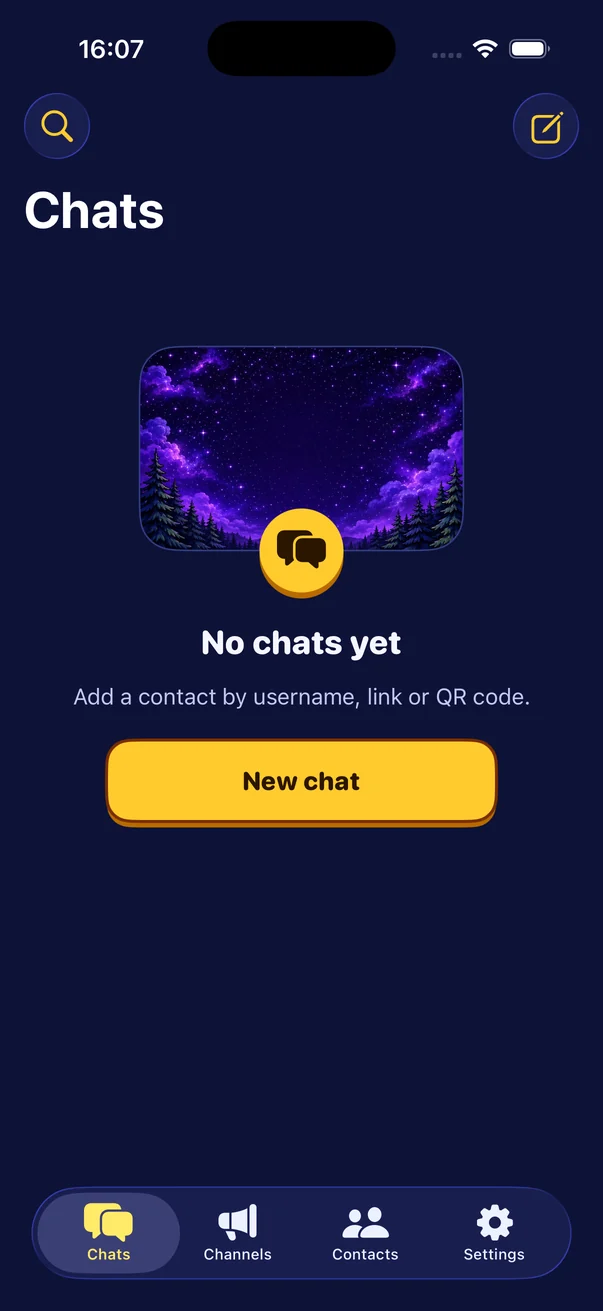
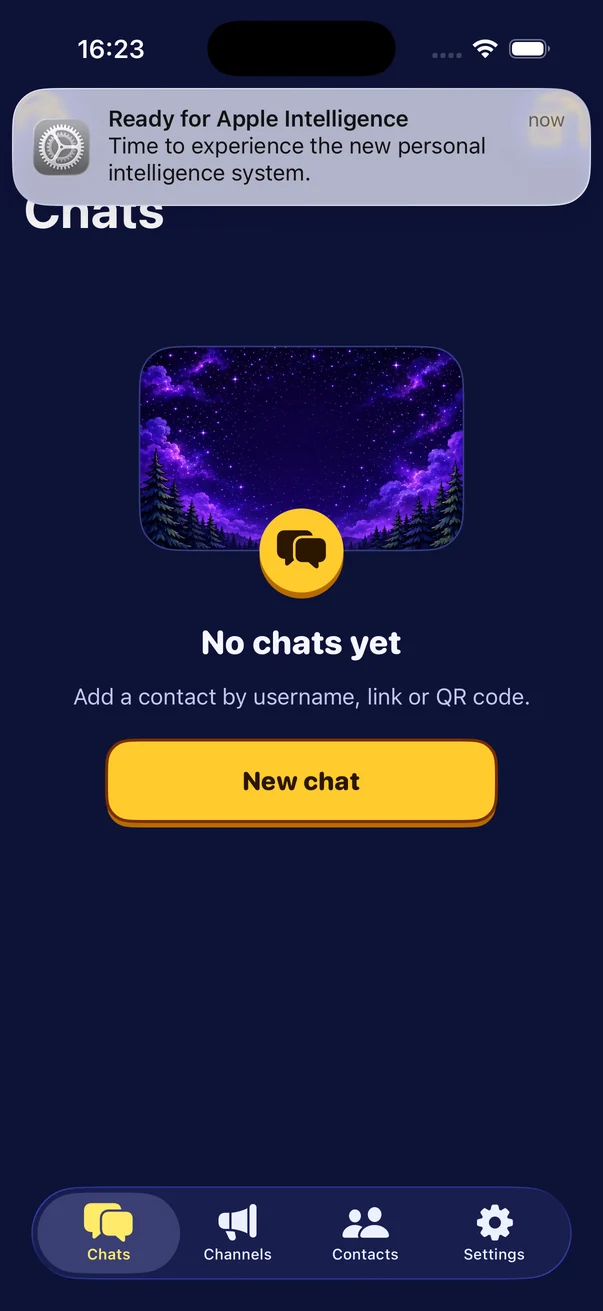
fix(ios): попытка PIN засчитывается до проверки; жалобы на чат и канал; умолчания как на Android
Аудит iOS против Android:

- 🔐 уязвимость: неверная попытка PIN записывалась после проверки.
  Вывод ключа (Argon2 и Secure Enclave) занимает доли секунды; убитое в
  это время приложение не записывало ничего — перебор PIN без задержек
  и без стирания. Теперь как на Android (аудит A-1):
  PinAttempts.beginAttempt() до проверки, reset() при верном PIN,
  cancelAttempt() — если PIN не сверялся (ключ Enclave недоступен и т. п.);
  без записанной попытки PIN не проверяется вовсе;
- 🔐 включение Face ID сверяло PIN мимо счётчика — с открытым
  приложением PIN перебирался без задержек. Теперь та же запись
  попытки, задержки и стирание после десяти;
- жалоба на собеседника (canReportChat → reportChat, «только
  пожаловаться» / «пожаловаться и заблокировать») и на канал (пять
  причин, «отправить с доступом» / «только жалоба») — тексты как на
  Android; без жалоб App Store не пропускает приложения с содержимым
  пользователей (правило 1.2);
- автоблокировка по умолчанию — 60 с, скопированное стирается через
  60 с — как на Android (было 30 и 120).

Сайт: снимки нового отчёта — приветствие с логотипом, вход, чаты.

Changed region(s): [[0.0, 0.0305, 0.9851, 0.1831]]

diff --git a/ios/GasApp/UI/ChannelScreen.swift b/ios/GasApp/UI/ChannelScreen.swift
@@ -255,6 +255,8 @@ struct ChannelInfoSheet: View {
     @State private var link: String?
     @State private var qr: FfiQrMatrix?
     @State private var confirmLeave = false
+    @State private var reportReason: UInt8?
+    @State private var reportNote: String?
     @Environment(\.dismiss) private var dismiss
 
     init(channelId: String, onDone: @escaping (Bool) -> Void) {
@@ -284,7 +286,19 @@ struct ChannelInfoSheet: View {
                             get: { channel.muted }, set: { mute($0) }
                         ))
                         if channel.role != .owner {
+                            // Причины — те же номера, что знает сервер (как на Android).
+                            Menu {
+                                ForEach(ChannelReport.reasons, id: \.0) { reason in
+                                    Button(reason.1) { reportReason = reason.0 }
+                                }
+                            } label: {
+                                Label(L10n.t("Пожаловаться на канал", "Report channel"), systemImage: "exclamationmark.bubble")
+                            }
+                            .foregroundStyle(GasAppColor.error)
                             Button(L10n.t("Покинуть канал", "Leave channel"), role: .destructive) { confirmLeave = true }
+                        }
+                        if let reportNote {
+                            Text(reportNote).font(.system(size: 13)).foregroundStyle(GasAppColor.textSecondary)
                         }
                     }
                 }
@@ -295,6 +309,19 @@ struct ChannelInfoSheet: View {
         .toolbar { ToolbarItem(placement: .confirmationAction) { Button(L10n.t("Готово", "Done")) { onDone(false); dismiss() } } }
         .confirmationDialog(L10n.t("Покинуть канал?", "Leave the channel?"), isPresented: $confirmLeave, titleVisibility: .visible) {
             Button(L10n.t("Покинуть", "Leave"), role: .destructive) { leave() }
+        }
+        // 🔐 Записи канала без публичного имени оператор прочитать не может:
+        // дать ли ему ключ чтения, решает человек, и что получит оператор,
+        // сказано до кнопок (ChannelActivity.confirmReport на Android).
+        .confirmationDialog(L10n.t("Пожаловаться на канал", "Report channel"), isPresented: Binding(
+            get: { reportReason != nil }, set: { if !$0 { reportReason = nil } }
+        ), titleVisibility: .visible) {
+            Button(L10n.t("Отправить с доступом", "Send with access")) { sendReport(shareKey: true) }
+            Button(L10n.t("Только жалоба", "Report only")) { sendReport(shareKey: false) }
+            Button(L10n.t("Отмена", "Cancel"), role: .cancel) { reportReason = nil }
+        } message: {
+            Text(L10n.t("Жалоба уйдёт оператору сервера вместе с именем вашего аккаунта. Записи этого канала оператор прочитать не может — если не дать ему доступ. «Отправить с доступом» приложит к жалобе ссылку канала: оператор сможет открыть его и увидеть, на что вы жалуетесь.",
+                        "The report goes to the server operator together with your account name. The operator cannot read this channel's posts unless you give access. “Send with access” attaches the channel link to the report, so the operator can open the channel and see what you are reporting."))
         }
         .task { await load() }
     }
@@ -317,6 +344,20 @@ struct ChannelInfoSheet: View {
         }
     }
 
+    private func sendReport(shareKey: Bool) {
+        guard let reason = reportReason, let messenger = try? CoreStore.shared.current() else { return }
+        reportReason = nil
+        let id = channelId
+        Task {
+            let sent = (try? await Background.run {
+                try messenger.reportChannel(channelId: id, reason: reason, shareKey: shareKey, nowMillis: CoreStore.nowMillis)
+            }) != nil
+            reportNote = sent
+                ? L10n.t("Жалоба отправлена", "Report sent")
+                : L10n.t("Нет связи с сервером. Попробуйте ещё раз.", "No connection to the server. Try again.")
+        }
+    }
+
     private func leave() {
         guard let messenger = try? CoreStore.shared.current() else { return }
         let id = channelId
@@ -326,4 +367,15 @@ struct ChannelInfoSheet: View {
             dismiss()
         }
     }
+}
+
+/// Причины жалобы на канал: номер, как его знает сервер, и подпись.
+enum ChannelReport {
+    static let reasons: [(UInt8, String)] = [
+        (1, L10n.t("Спам или обман", "Spam or scam")),
+        (2, L10n.t("Незаконное содержимое", "Illegal content")),
+        (3, L10n.t("Угроза безопасности детей", "Child safety concern")),
+        (4, L10n.t("Насилие или ненависть", "Violence or hate")),
+        (5, L10n.t("Другое", "Something else")),
+    ]
 }

diff --git a/ios/GasApp/UI/ChatScreen.swift b/ios/GasApp/UI/ChatScreen.swift
@@ -41,6 +41,7 @@ struct ChatScreen: View {
     @State private var contact: FfiContact?
     @State private var blocked = false
     @State private var showSafety = false
+    @State private var confirmReport = false
     @State private var confirmDecline = false
     @State private var toast: String?
     @State private var receiptSentFor: String?
@@ -101,11 +102,23 @@ struct ChatScreen: View {
                         }
                     }
                     if !resolvedChatId.isEmpty {
+                        Button(L10n.t("Пожаловаться", "Report"), role: .destructive) { startReport() }
                         Button(blocked ? L10n.t("Разблокировать", "Unblock") : L10n.t("Заблокировать", "Block"),
                                role: blocked ? nil : .destructive) { toggleBlock() }
                     }
                 } label: { Image(systemName: "ellipsis.circle") }
             }
+        }
+        // Жалоба — как на Android (ChatActivity): что получит оператор,
+        // сказано до кнопок; «и заблокировать» — второй вариант.
+        .confirmationDialog(L10n.t("Пожаловаться на \(title)?", "Report \(title)?"),
+                            isPresented: $confirmReport, titleVisibility: .visible) {
+            Button(L10n.t("Пожаловаться и заблокировать", "Report and block"), role: .destructive) { sendReport(alsoBlock: true) }
+            Button(L10n.t("Только пожаловаться", "Report only")) { sendReport(alsoBlock: false) }
+            Button(L10n.t("Отмена", "Cancel"), role: .cancel) {}
+        } message: {
+            Text(L10n.t("Оператор сервера получит доказательство, что этот аккаунт вам писал, — но не переписку: её у сервера нет. \(title) об этом не узнает.",
+                        "The server operator gets proof that this account wrote to you — not your conversation: the server does not have it. \(title) is not told."))
         }
         .sheet(isPresented: $showSafety, onDismiss: { Task { await refresh() } }) {
             if let contact {
@@ -237,7 +250,7 @@ struct ChatScreen: View {
                 // другие приложения.
                 UIPasteboard.general.setItems([["public.utf8-plain-text": message.text]],
                                               options: [.localOnly: true,
-                                                        .expirationDate: Date().addingTimeInterval(120)])
+                                                        .expirationDate: Date().addingTimeInterval(60)])
             } label: { Label(L10n.t("Копировать", "Copy"), systemImage: "doc.on.doc") }
         }
         if message.outgoing && mode == .open && !message.id.hasPrefix("local-") {
@@ -469,6 +482,45 @@ struct ChatScreen: View {
             _ = try? await Background.run { try messenger.declineChat(chatId: chat, nowMillis: CoreStore.nowMillis) }
             inbox.touch()
             dismiss()
+        }
+    }
+
+    /// 🔐 Жалоба доказывается сертификатом отправителя с его конверта:
+    /// пока собеседник ничего не прислал, доказать нечем (`canReportChat`).
+    private func startReport() {
+        guard let messenger = try? CoreStore.shared.current() else { return }
+        let chat = resolvedChatId
+        Task {
+            let can = (try? await Background.run { try messenger.canReportChat(chatId: chat) }) ?? false
+            if can {
+                confirmReport = true
+            } else {
+                toast = L10n.t("Пожаловаться можно, когда собеседник вам что-нибудь напишет.",
+                               "You can report once they have sent you a message.")
+            }
+        }
+    }
+
+    private func sendReport(alsoBlock: Bool) {
+        guard let messenger = try? CoreStore.shared.current() else { return }
+        let chat = resolvedChatId
+        let peer = peerUsername
+        Task {
+            do {
+                let recorded = try await Background.run { try messenger.reportChat(chatId: chat, nowMillis: CoreStore.nowMillis) }
+                if alsoBlock {
+                    _ = try? await Background.run {
+                        try messenger.blockChat(chatId: chat, username: peer.isEmpty ? nil : peer, nowMillis: CoreStore.nowMillis)
+                    }
+                    await refresh()
+                }
+                toast = recorded
+                    ? L10n.t("Жалоба отправлена. Спасибо.", "Report sent. Thank you.")
+                    : L10n.t("Вы уже жаловались на этот аккаунт.", "You have already reported this account.")
+            } catch {
+                toast = L10n.t("Жалобу отправить не удалось. Проверьте связь и попробуйте ещё раз.",
+                               "Could not send the report. Check the connection and try again.")
+            }
         }
     }
 

diff --git a/ios/GasApp/UI/SettingsScreen.swift b/ios/GasApp/UI/SettingsScreen.swift
@@ -175,17 +175,49 @@ struct SettingsScreen: View {
 
     /// 🔐 Face ID включается только ключом, который действительно открыл
     /// базу: PIN спрашивается заново и проверяется.
+    ///
+    /// 🔐 Эта сверка — тоже ответ на «верен ли PIN», поэтому она идёт
+    /// через тот же счётчик, что и вход: задержки, запись попытки до
+    /// проверки и стирание после десяти (как `Reauth` на Android). Иначе
+    /// открытое приложение было бы способом перебирать PIN без задержек.
     private func enableBiometric(pin: [UInt8]) {
+        let wait = PinAttempts.waitRemaining()
+        guard wait <= 0 else {
+            biometricOn = false
+            error = L10n.t("Слишком много неверных PIN. Подождите \(Int(wait.rounded(.up))) с.",
+                           "Too many wrong PINs. Wait \(Int(wait.rounded(.up))) s.")
+            return
+        }
+        guard PinAttempts.beginAttempt() else {
+            biometricOn = false
+            error = L10n.t("Не удалось сохранить попытку. Попробуйте ещё раз.", "Could not save the attempt. Try again.")
+            return
+        }
         Task {
-            let done = (try? await Background.run { () -> Bool in
+            // nil — PIN не сверялся (сбой ключа Enclave и т. п.).
+            let verdict = try? await Background.run { () -> Bool in
                 var key = try CoreStore.shared.deriveKey(pin: pin)
                 defer { key.wipe() }
                 guard CoreStore.shared.keyOpensStorage(key) else { return false }
                 try Biometric.enable(key: key)
                 return true
-            }) ?? false
-            biometricOn = done
-            if !done { error = L10n.t("PIN не подошёл — Face ID не включён", "Wrong PIN — Face ID not enabled") }
+            }
+            switch verdict {
+            case true?:
+                PinAttempts.reset()
+                biometricOn = true
+            case false?:
+                biometricOn = false
+                if PinAttempts.shouldWipe {
+                    model.didWipe()
+                    return
+                }
+                error = L10n.t("PIN не подошёл — Face ID не включён", "Wrong PIN — Face ID not enabled")
+            case nil:
+                PinAttempts.cancelAttempt()
+                biometricOn = false
+                error = L10n.t("Не удалось включить Face ID", "Could not enable Face ID")
+            }
         }
     }
 

diff --git a/ios/GasApp/Core/SecureStore.swift b/ios/GasApp/Core/SecureStore.swift
@@ -124,6 +124,31 @@ enum PinAttempts {
         SecureStore.set(Int(uptime), for: lastUptimeKey)
     }
 
+    /// 🔐 Засчитывает попытку **до** проверки PIN — как
+    /// `PinAttempts.beginAttempt` на Android (аудит 2026-10-02, A-1).
+    ///
+    /// Прежде неверная попытка записывалась после проверки: убитое во
+    /// время вывода ключа (Argon2 и Secure Enclave — доли секунды)
+    /// приложение не записывало ничего, и PIN перебирался без задержек и
+    /// без стирания. Теперь прерванная проверка остаётся неверной; верный
+    /// PIN снимает её через [reset], непроверенный — через [cancelAttempt].
+    ///
+    /// - Returns: `false`, если запись не удалась — тогда проверять PIN
+    ///   нельзя: проверка без записанной попытки и есть обход.
+    static func beginAttempt(now: Date = Date(), uptime: TimeInterval = ProcessInfo.processInfo.systemUptime) -> Bool {
+        let before = failures
+        recordFailure(now: now, uptime: uptime)
+        return failures == before + 1
+    }
+
+    /// Снимает попытку, начатую [beginAttempt], не трогая прежние: PIN
+    /// не сверялся вовсе (ключ Enclave недоступен, сбой не из-за PIN).
+    /// 🔐 Счётчик возвращается на шаг, а не сбрасывается.
+    static func cancelAttempt() {
+        let current = failures
+        if current > 0 { SecureStore.set(current - 1, for: failuresKey) }
+    }
+
     static func reset() {
         SecureStore.remove(failuresKey)
         SecureStore.remove(lastWallKey)

diff --git a/ios/GasApp/UI/LockScreen.swift b/ios/GasApp/UI/LockScreen.swift
@@ -101,6 +101,15 @@ struct LockScreen: View {
             return
         }
 
+        // 🔐 Попытка записана до проверки: прерванная проверка остаётся
+        // неверной (см. `PinAttempts.beginAttempt`).
+        guard PinAttempts.beginAttempt() else {
+            pin.wipe()
+            error = L10n.t("Не удалось сохранить попытку. Попробуйте ещё раз.",
+                           "Could not save the attempt. Try again.")
+            return
+        }
+
         working = true
         error = nil
 
@@ -133,8 +142,11 @@ struct LockScreen: View {
                 return
             }
 
-            if self.error == nil {
-                PinAttempts.recordFailure()
+            // PIN не сверялся (ошибка выше записана) — попытка снимается:
+            // в счётчик идёт только отказ ядра, то есть неверный PIN.
+            if self.error != nil {
+                PinAttempts.cancelAttempt()
+            } else {
                 if PinAttempts.shouldWipe {
                     model.didWipe()
                     return

diff --git a/ios/GasApp/App/AppModel.swift b/ios/GasApp/App/AppModel.swift
@@ -25,12 +25,12 @@ final class AppModel {
     var autoLockAfter: TimeInterval { TimeInterval(Self.autoLockSeconds) }
 
     /// Время до автоблокировки в фоне (настройки): 0 — сразу. По умолчанию
-    /// 30 секунд. В Keychain значение хранится со сдвигом на 1, чтобы
+    /// 60 секунд — как `Settings.AUTO_LOCK_DEFAULT` на Android. В Keychain значение хранится со сдвигом на 1, чтобы
     /// «не задано» (0) отличалось от «сразу».
     static var autoLockSeconds: Int {
         get {
             let stored = SecureStore.int("autolock.seconds")
-            return stored == 0 ? 30 : stored - 1
+            return stored == 0 ? 60 : stored - 1
         }
         set { SecureStore.set(newValue + 1, for: "autolock.seconds") }
     }

diff --git a/tools/build-site.py b/tools/build-site.py
@@ -700,8 +700,8 @@ def index_page(language, base_url):
         f'<p class="hero-note">{html.escape(text["hero_note"])}</p>'
         '<div class="phones">'
         + shot("lock", text["shot_lock"], "side left")
-        + shot("chats", text["shot_chats"], "center")
-        + shot("contacts", text["shot_contacts"], "side right")
+        + shot("welcome", text["shot_welcome"], "center")
+        + shot("chats", text["shot_chats"], "side right")
         + "</div></div></section>"
         f'<div class="wrap"><div class="promises">{promises}</div></div>'
         f'<section id="features" class="section"><div class="wrap split">'
@@ -809,7 +809,7 @@ def build(out, base_url):
             target.parent.mkdir(parents=True, exist_ok=True)
             target.write_bytes(item.read_bytes())
     # Снимки — настоящие, из прогона в симуляторе (tools/mac-check.sh).
-    for screen in ("lock", "chats", "contacts"):
+    for screen in ("lock", "welcome", "chats"):
         if not (assets / "screens" / f"{screen}.webp").exists():
             raise BuildError(f"нет снимка экрана tools/site-assets/screens/{screen}.webp")
 
